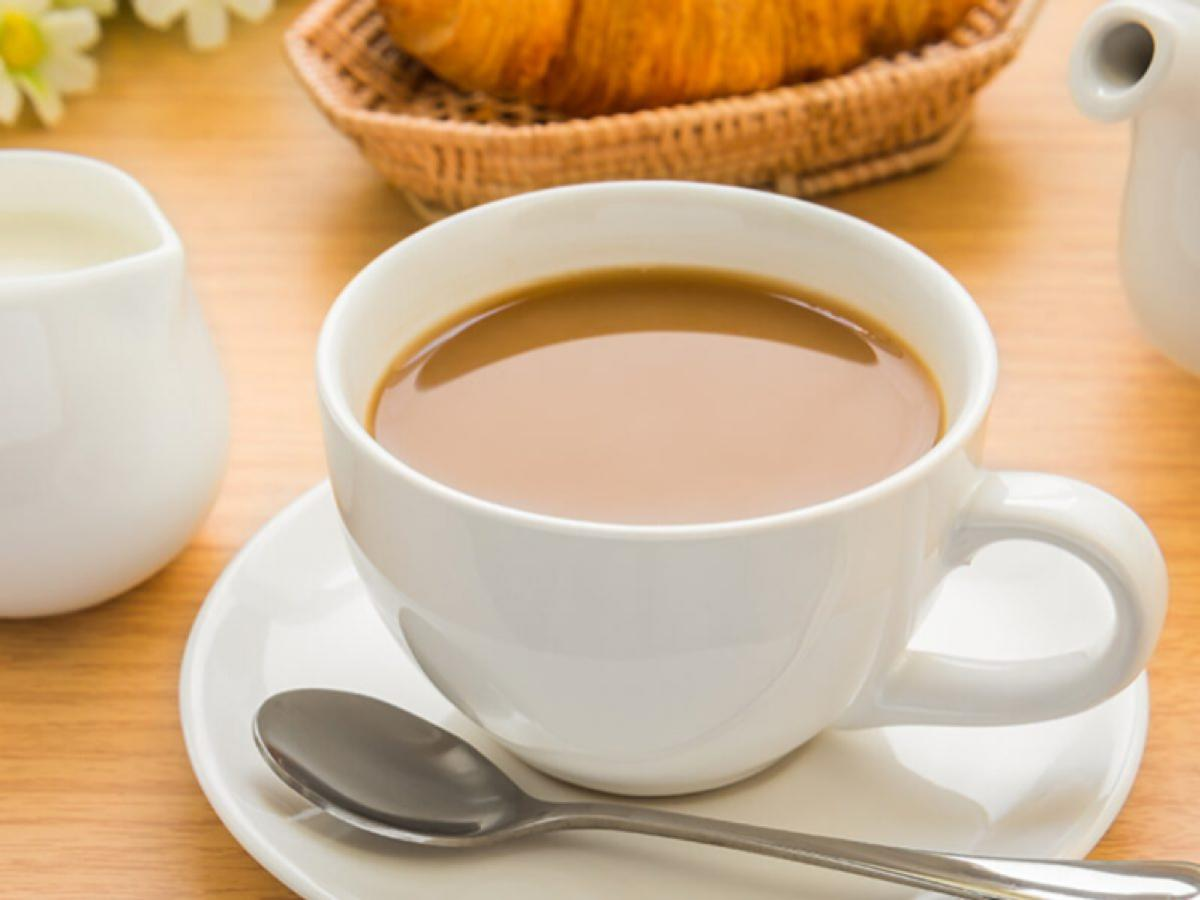
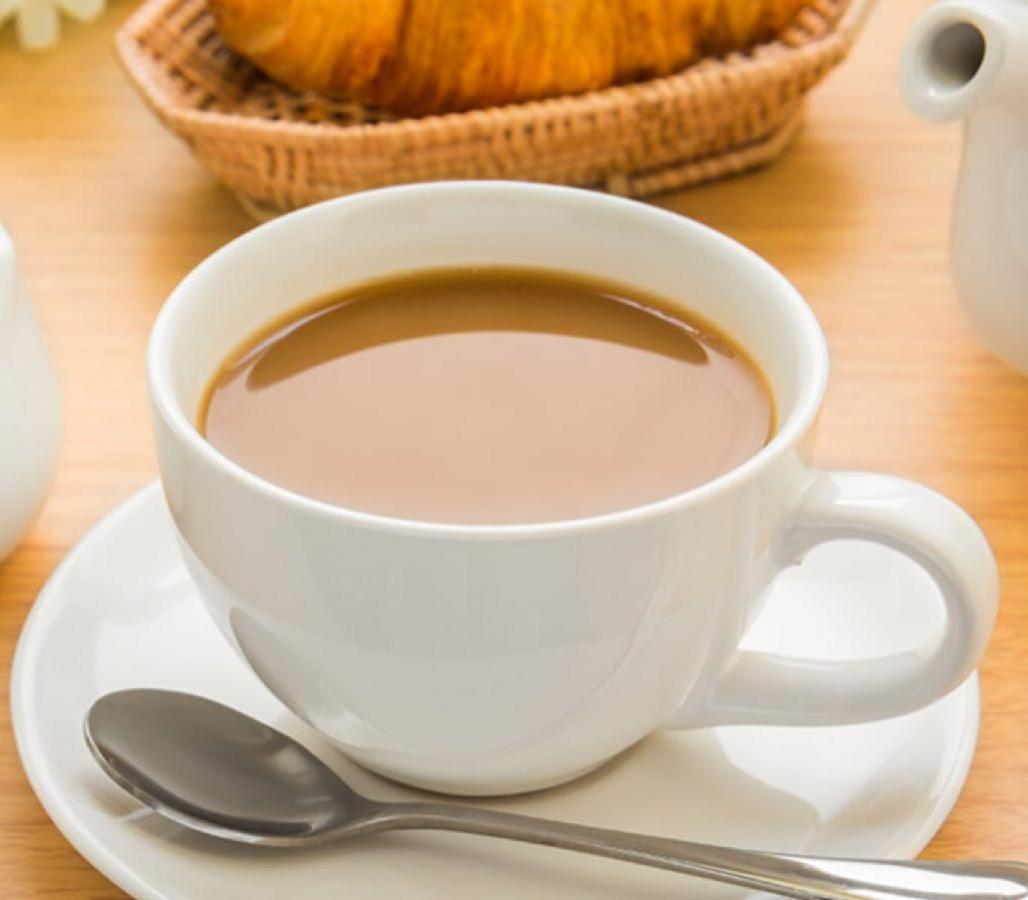
menu pic update

diff --git a/web_app/templates/menu.html b/web_app/templates/menu.html
@@ -135,7 +135,7 @@
             </div>
     
             <div class="col-lg-6 menu-item filter-espresso">
-              <img src="/static/assets/img/cappuccino.webp" class="menu-img" alt="">
+              <img src="/static/assets/img/cappuccino_copy.jpeg" class="menu-img" alt="">
               <div class="menu-content">
                 <a href="#">Cappuccino</a><span>$3.60 - $4.15</span>
               </div>
